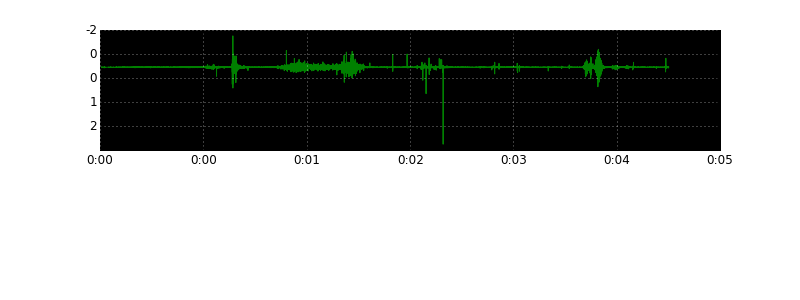
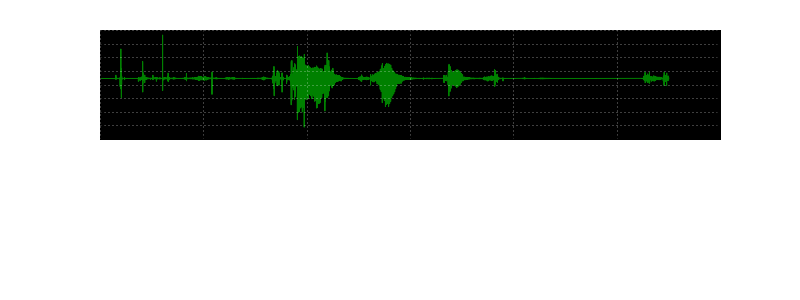
it looks better

Changed region(s): [[0.0938, 0.18, 0.9375, 0.57], [0.2812, 0.12, 0.3125, 0.15], [0.0938, 0.09, 0.125, 0.12]]

diff --git a/audio_graph.py b/audio_graph.py
@@ -1,11 +1,10 @@
 import wave
 import numpy as np
 import matplotlib.pyplot as plt
-import matplotlib.ticker as ticker #for what???
+import matplotlib.ticker as ticker
 import math
 
-# create dictionary(this step might be ommited if we will use
-# only one type of audiofile)
+# this step is for case if we decide to choose amunt of channels
 
 types = {
     1: np.int8,
@@ -13,63 +12,49 @@ types = {
     4: np.int32
 }
 
-# definig functions to format graph
-
-def format_time(x, pos=None):
-    global duration, nframes, k
-    progress = int(x / float(nframes) * duration * k)
-    mins, secs = divmod(progress, 60)
-    hours, mins = divmod(mins, 60)
-    out = "%d:%02d" % (mins, secs)
-    if hours > 0:
-        out = "%d:" % hours
-    return out
-
-def format_db(x, pos=None):
-    if pos == 0:
-        return ""
-    global peak
-    if x == 0:
-        return "-inf"
-    db = 20 * math.log10(abs(x) / float(peak))
-    return int(db)
-
-# open file(it may be better to combine two programs into one)
+# open file, that we have got from audio we need to do that
+# cause pyaudio doesn't work with python3.4
 wav = wave.open("output.wav", mode="r")
-#(number of channels, byte per sample, frame per second, number of frames, compression type, compression name)
+#(number of channels, byte per sample, frame per second, number of frames,
+#compression type, compression name)
 (nchannels, sampwidth, framerate, nframes, comptype, compname) = wav.getparams()
 
+# defining parameters of record
 duration = nframes / framerate
-# paremeters of graph
-w, h = 800, 300
-k = nframes/w/32
-DPI = 72
+w, h = 800, 300 #width and height of plot
+k = nframes/w/32 #step of plot (save time)
+DPI = 72 # resolution
 peak = 256 ** sampwidth / 2
 
+#reading data
 content = wav.readframes(nframes)
+# creating numpy array
 samples = np.fromstring(content, dtype=types[sampwidth])
 
+#saving array in TXT
 f=open("test.txt", 'wb')
 np.savetxt(f, samples, '%10.1f', newline="")
 
+
+# defining size of graph
 plt.figure(1, figsize=(float(w)/DPI, float(h)/DPI), dpi=DPI)
-plt.subplots_adjust(wspace=0, hspace=0)
 
-# now we are making graph
-
+#making grapk for each channel
 for n in range(nchannels):
     channel = samples[n::nchannels]
     
     channel = channel[0::k]
+    # in case if we use sound wasn't normalized
     if nchannels == 1:
         channel = channel - peak
-    
+
     axes = plt.subplot(2, 1, n+1, axisbg="k")
     axes.plot(channel, "g")
-    axes.yaxis.set_major_formatter(ticker.FuncFormatter(format_db))
+    #we are not marking axes, because we do not need it (y)
+    axes.yaxis.set_major_formatter(ticker.NullFormatter())
+    #create scale
     plt.grid(True, color="w")
     axes.xaxis.set_major_formatter(ticker.NullFormatter())
-
-axes.xaxis.set_major_formatter(ticker.FuncFormatter(format_time))
+#(x)
+axes.xaxis.set_major_formatter(ticker.NullFormatter())
 plt.savefig("wave", dpi=DPI)
-plt.show()

diff --git a/catching_audio.py b/catching_audio.py
@@ -20,7 +20,7 @@ stream = p.open(format=FORMAT,
                 input=True,
                 frames_per_buffer=CHUNK) #buffer
 
-#srat recording
+#start recording
 
 print("* recording")
 
